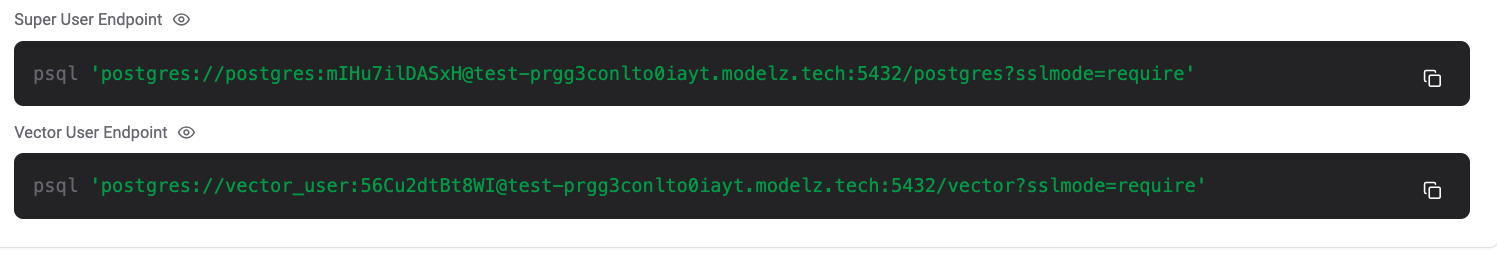
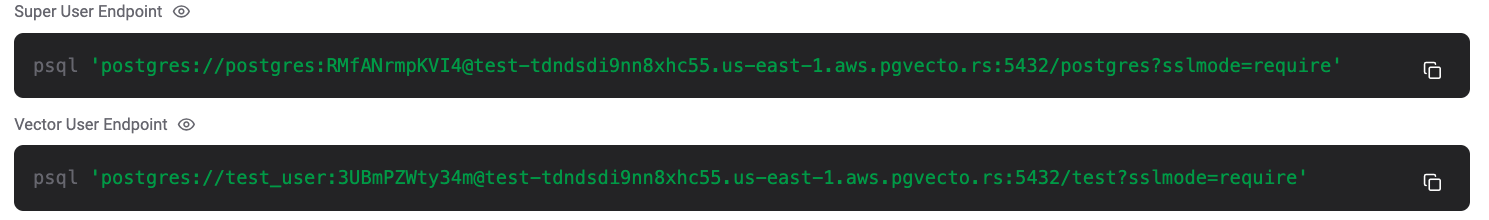
fix monitoring image and description error

diff --git a/src/cloud/getting-started/quick-start.md b/src/cloud/getting-started/quick-start.md
@@ -36,7 +36,7 @@ We provide two types of connection endpoints, `Super User Endpoint` and `Vector 
 To connect to the cluster, you can use the provided connection strings. You can connect to the cluster using the `psql` command-line tool. For detailed instructions on how to connect to the cluster, see [Connect to PGVecto.rs Cloud with psql](../connect/connect-with-psql.md). After connecting to the cluster, we can execute the following SQL query `\dx` to validate you have successfully installed the vectors extension.
 
 ```shell
-$ psql 'postgres://vector_user:56Cu2dtBt8WI@test-prgg3conlto0iayt.modelz.tech:5432/vector?sslmode=require'
+$ psql 'postgres://test_user:3UBmPZWty34m@test-tdndsdi9nn8xhc55.us-east-1.aws.pgvecto.rs:5432/test?sslmode=require'
 psql (15.3, server 16.2 (Debian 16.2-1.pgdg110+2))
 WARNING: psql major version 15, server major version 16.
          Some psql features might not work.

diff --git a/src/cloud/monitoring/monitoring.md b/src/cloud/monitoring/monitoring.md
@@ -7,15 +7,15 @@ The PGVecto.rs Cloud provides several graphs for monitoring system and database 
 
 ## RAM
 
-This graph shows the average memory usage percentage of the Postgres instance in past 5 minutes. 
+This graph shows the average memory usage of the Postgres instance, the unit is in MB. 
 
 ![](../images/memory_usage.png)
 
 ## CPU
 
-This graph shows the average CPU usage percentage of the Postgres instance in past 5 minutes.
+This graph shows the average CPU utilization percentage of the Postgres instance in past 5 minutes.
 
-![](../images/cpu_usage.png)
+![](../images/cpu_utilization.png)
 
 ## Vector
 
